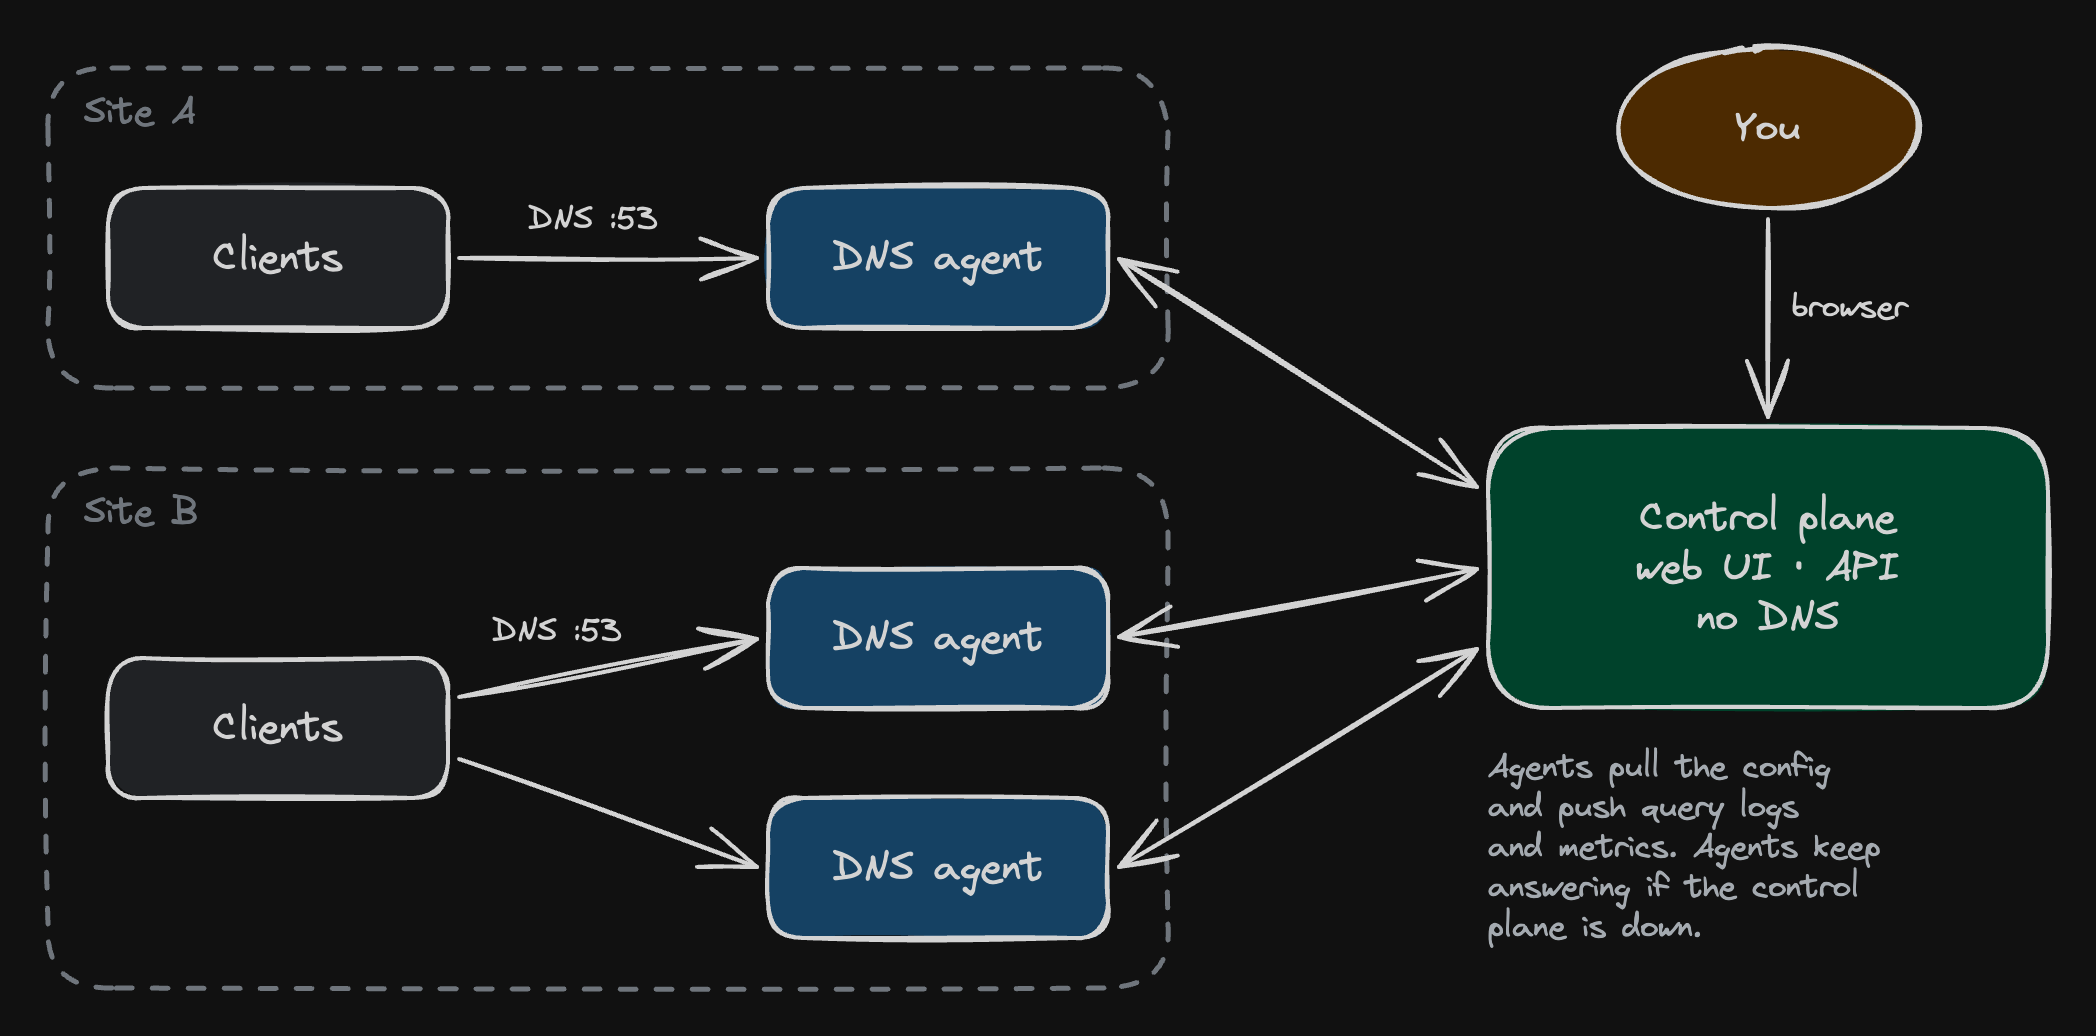
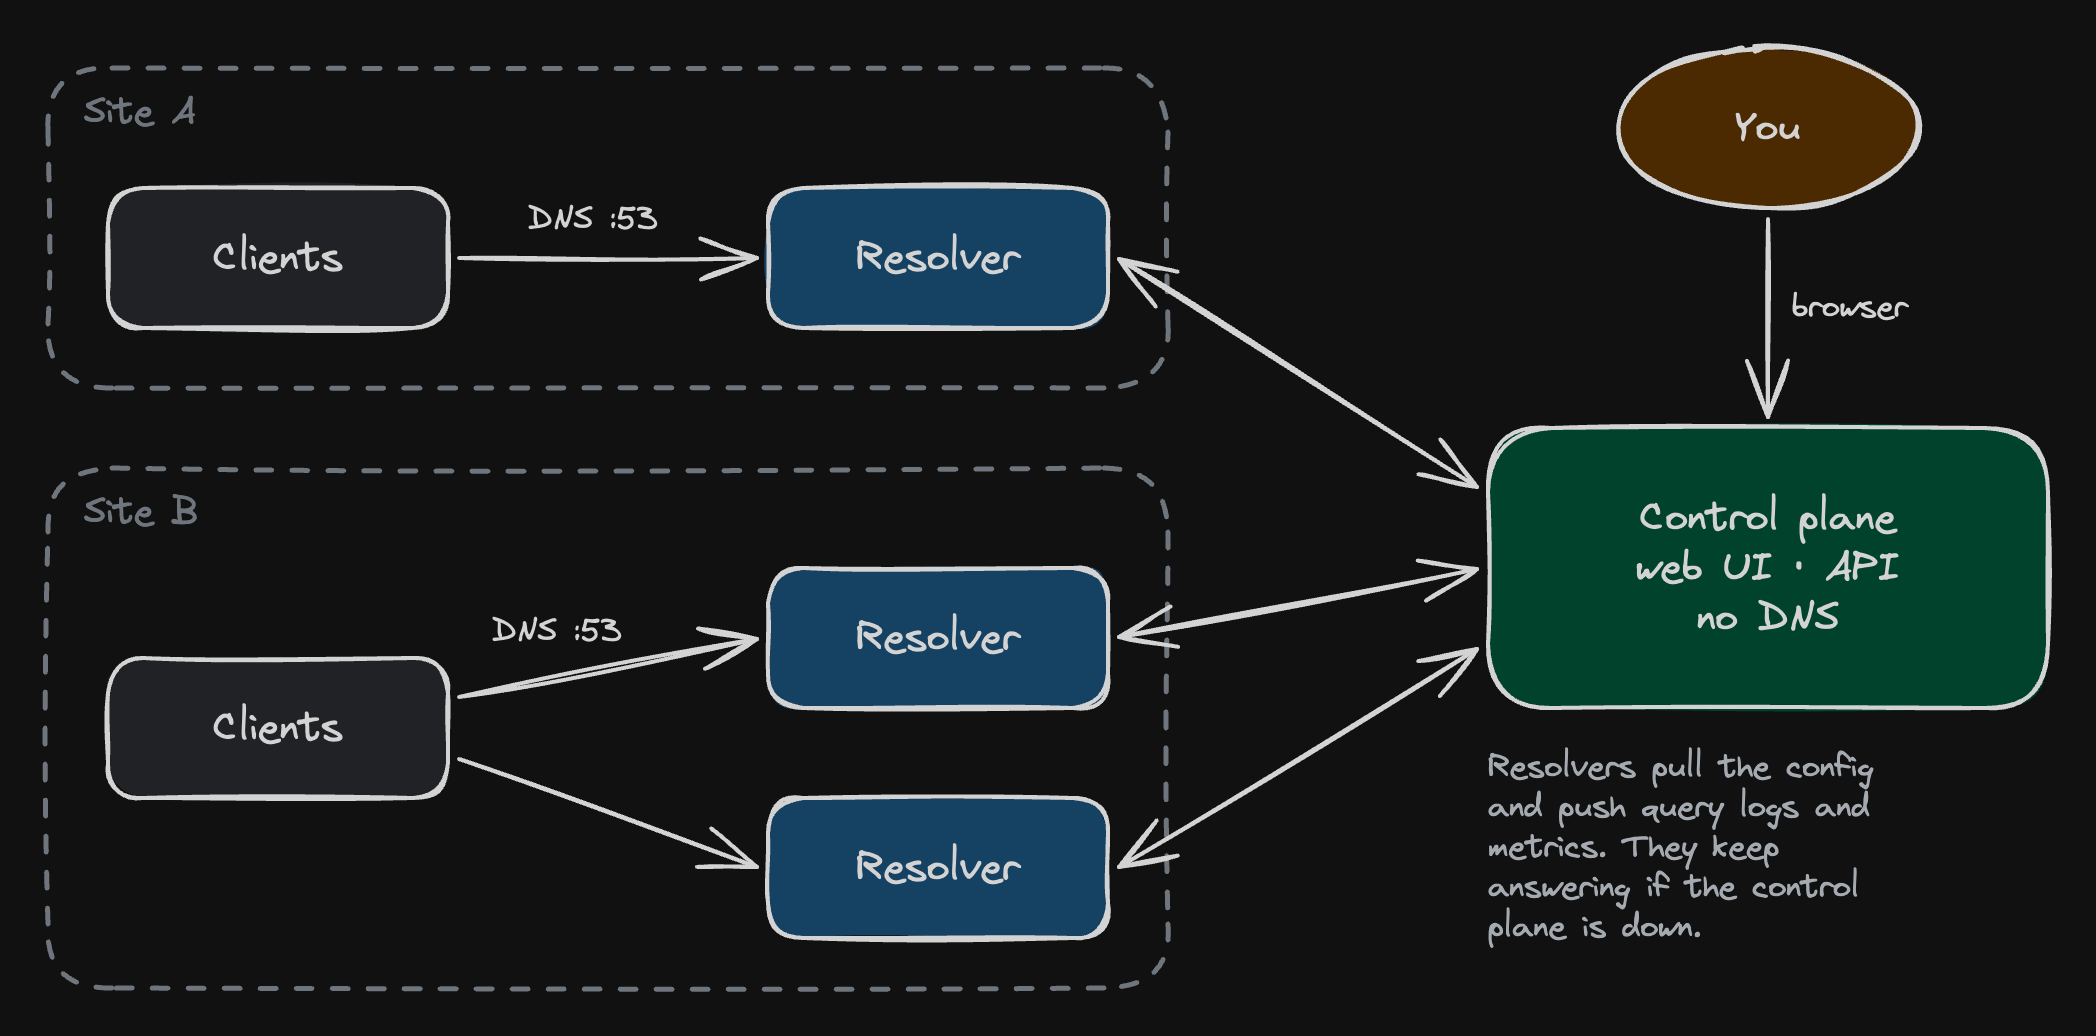
docs: resolver naming in the architecture diagram and image files
- architecture.excalidraw: the DNS servers are "Resolver" boxes and the
  note says "Resolvers pull the config…". Both PNGs (light and dark)
  re-exported from it with Excalidraw at the same size (2x, 24 px padding);
  the source keeps the re-centred label positions.
- Image files renamed: agents.png -> resolvers.png, agents-dark.png ->
  resolvers-dark.png, agent-detail.png -> resolver-detail.png,
  mobile-agents.png -> mobile-resolvers.png; README and user guide links
  updated.
- The architecture image's alt text in docs/dev says resolver.

The screenshots' contents still show the old UI (issue #82).

diff --git a/docs/user-guide.md b/docs/user-guide.md
@@ -433,7 +433,7 @@ rewrite, cache, and forwarding are unaffected; blocking resumes automatically.
 
 ## Clustering operations
 
-![Resolvers, grouped by site](images/agents.png)
+![Resolvers, grouped by site](images/resolvers.png)
 
 The control plane is the source of truth; each resolver pulls rules + rewrites over an
 authenticated snapshot and applies them live. The control plane never answers DNS,
@@ -454,7 +454,7 @@ so its dashboard/classifier load can't affect resolver latency.
 - **Node health** — the Resolvers page shows each node's address, status, version,
   sync state and counters; open a resolver for its details.
 
-  ![A resolver's details](images/agent-detail.png)
+  ![A resolver's details](images/resolver-detail.png)
 - **Maintenance/drain** — put a node into maintenance to answer `SERVFAIL` so clients
   fail over to another server while you work on it.
 - **Removing resolvers** — *Remove & revoke* tombstones the node so the still-running
@@ -634,7 +634,7 @@ the bottom and the rest under **More**.
 
 | Overview | More | Resolvers |
 |---|---|---|
-| ![Overview on a phone](images/mobile-overview.png) | ![The More menu](images/mobile-more.png) | ![Resolvers on a phone](images/mobile-agents.png) |
+| ![Overview on a phone](images/mobile-overview.png) | ![The More menu](images/mobile-more.png) | ![Resolvers on a phone](images/mobile-resolvers.png) |
 
 ## Seeing real client IPs
 

diff --git a/docs/dev/architecture.md b/docs/dev/architecture.md
@@ -9,7 +9,7 @@ wire codec (`miekg/dns`).
 
 <picture>
   <source media="(prefers-color-scheme: dark)" srcset="../images/architecture-dark.png">
-  <img src="../images/architecture.png" alt="Clients in each site query a DNS agent on port 53; every agent syncs with one control plane, which you use from a browser">
+  <img src="../images/architecture.png" alt="Clients in each site query a MazeDNS resolver on port 53; every resolver syncs with one control plane, which you use from a browser">
 </picture>
 
 ```

diff --git a/README.md b/README.md
@@ -62,7 +62,7 @@ from their last copy if the control plane goes away. Group them into sites with
 a role each, put one in maintenance to drain it, and see at a glance which
 resolvers are healthy, in sync and up to date.
 
-![Resolvers in sites](docs/images/agents.png)
+![Resolvers in sites](docs/images/resolvers.png)
 
 ### And everything around it
 
